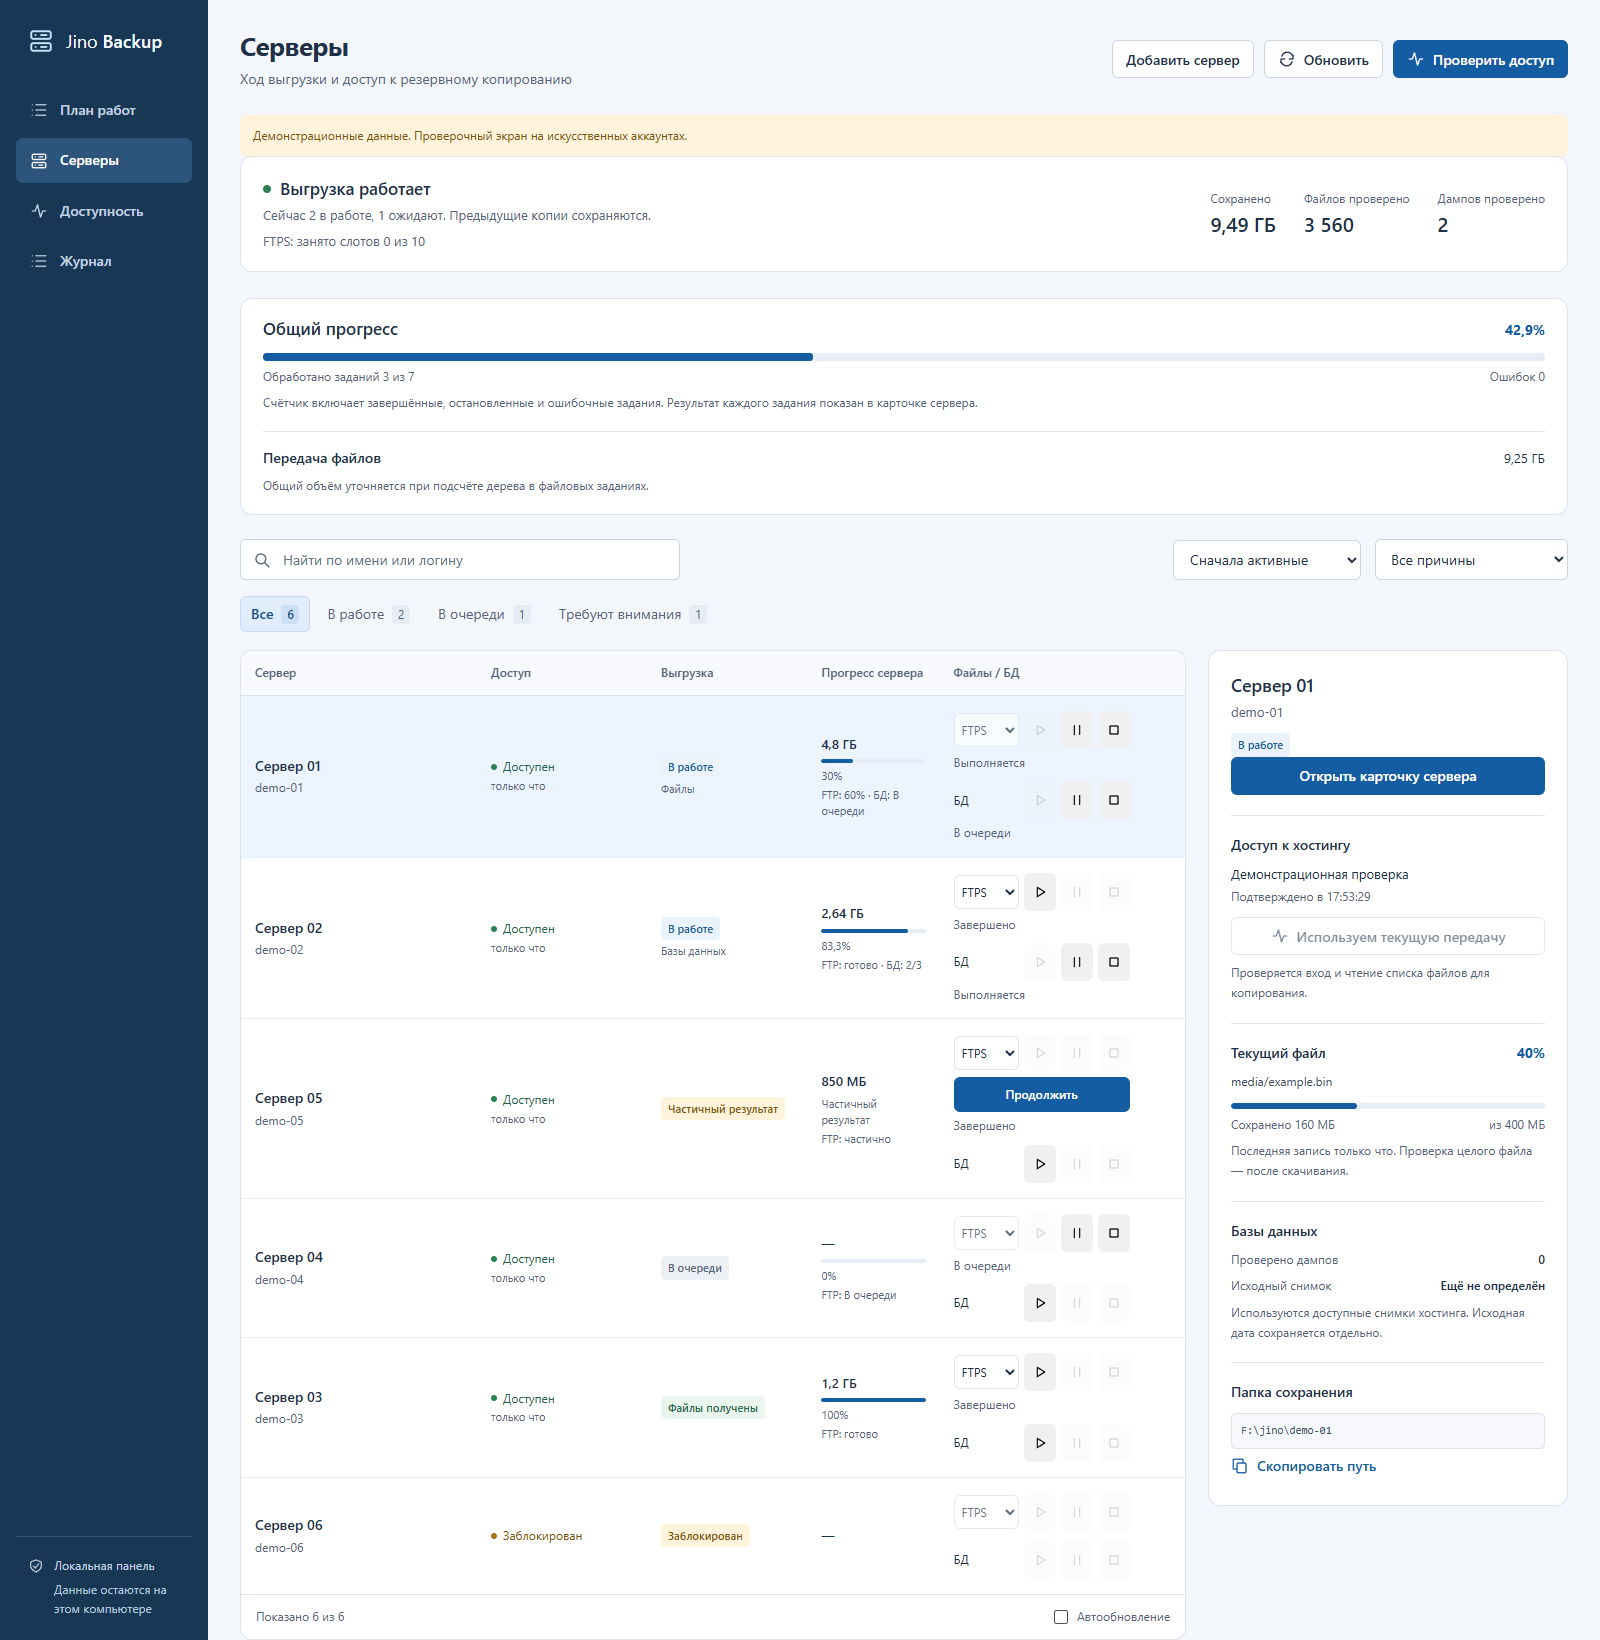
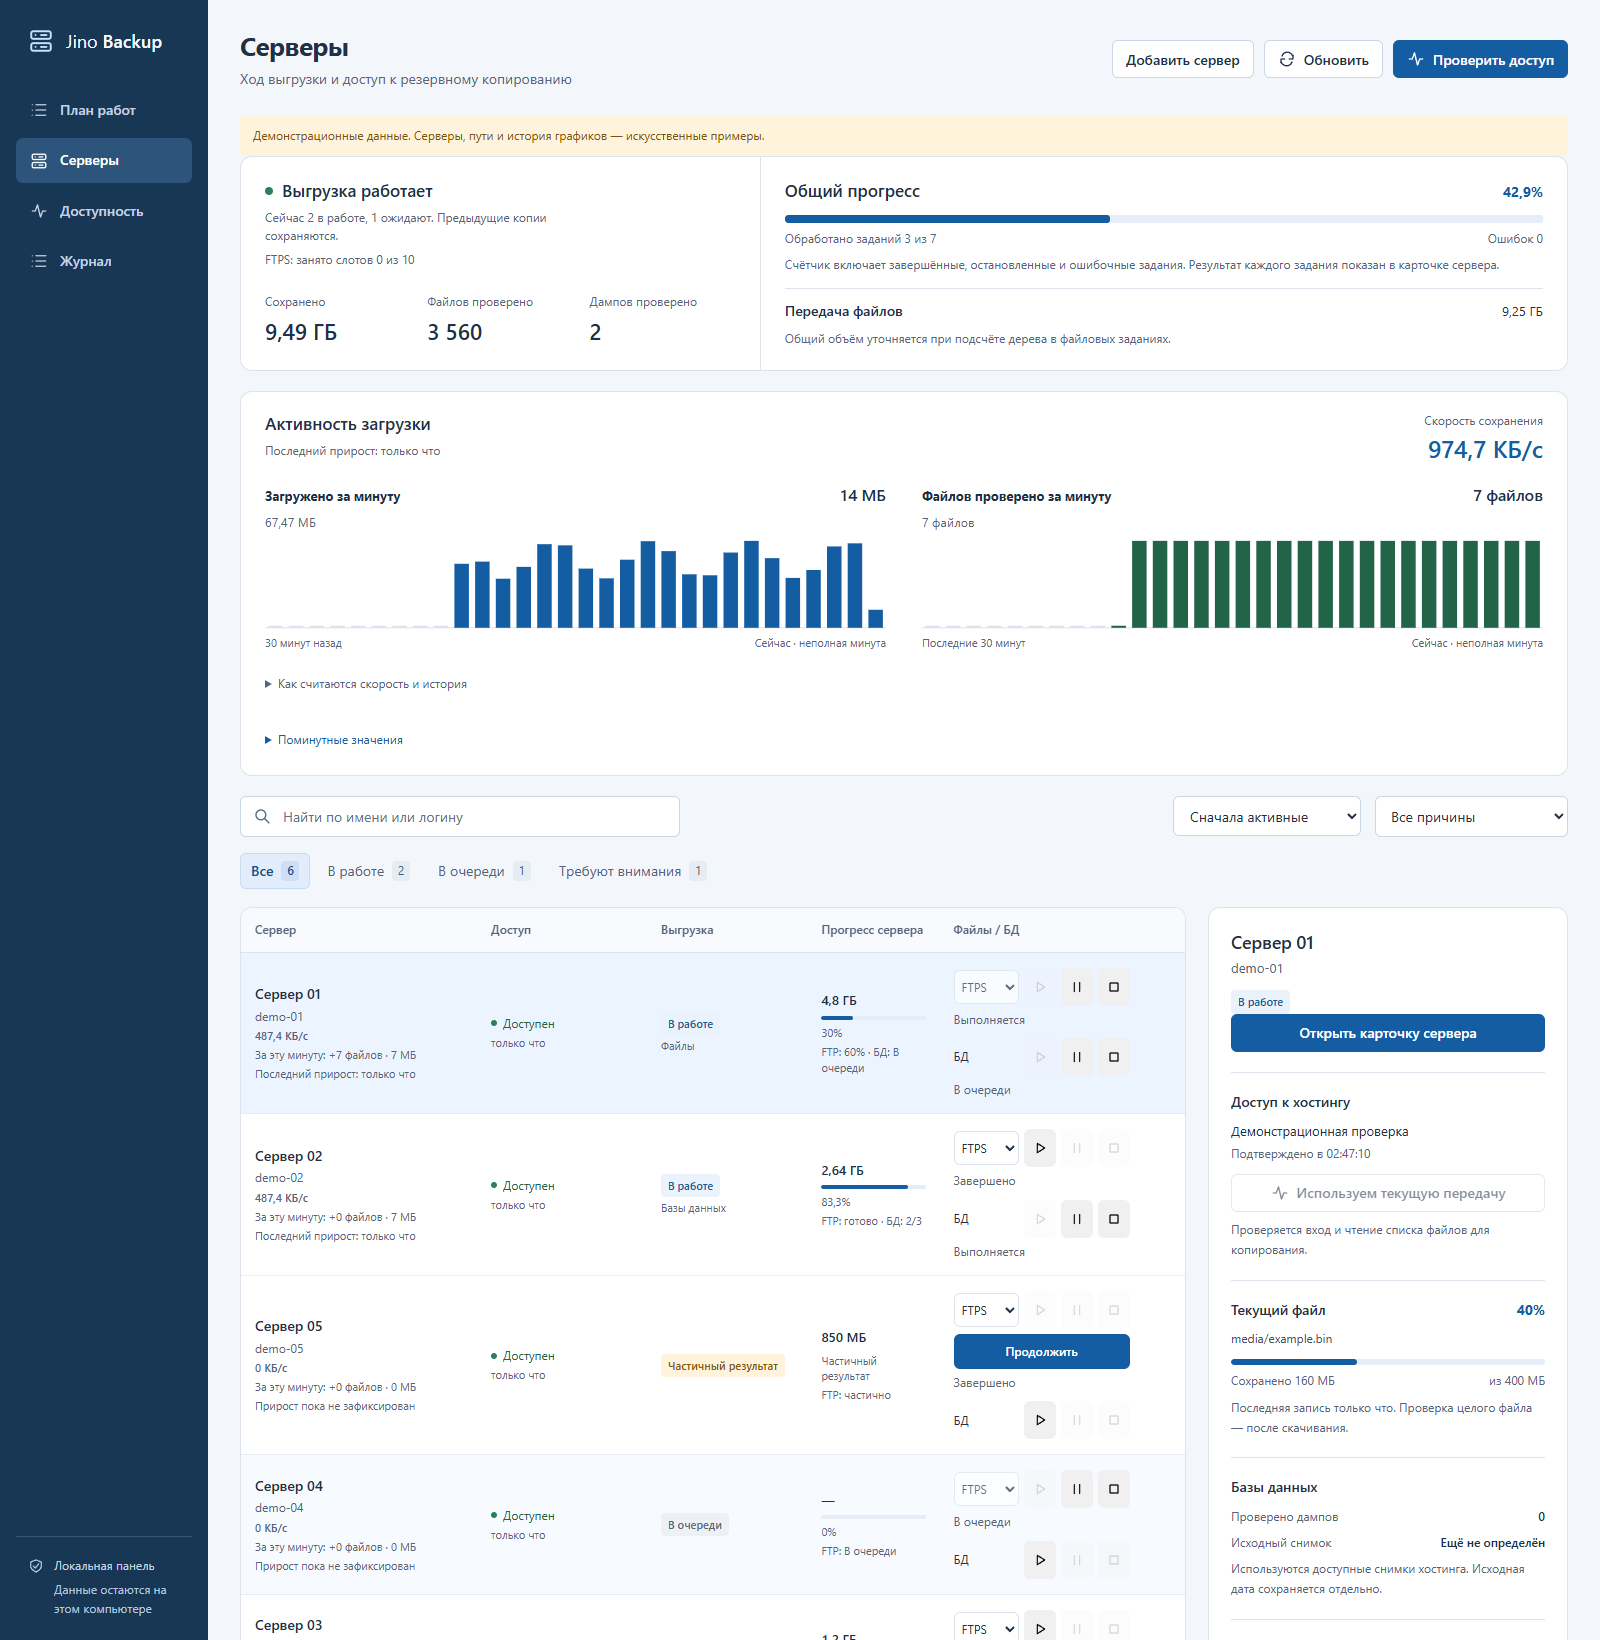
docs: refresh README screenshot with activity charts
Seed a synthetic 20-minute activity history in the capture script and note historical HTTPS diagnostics in the operator docs.

diff --git a/scripts/capture_readme_screenshot.py b/scripts/capture_readme_screenshot.py
@@ -99,6 +99,26 @@ def main():
                 expect(page.locator("#server-rows tr")).to_have_count(6)
                 expect(page.locator("#server-rows")).to_contain_text("demo-01")
                 expect(page.locator("#demo-banner")).to_be_visible()
+                page.evaluate('''() => {
+                    activity = new BackupActivity();
+                    const now = Date.now();
+                    for (let i=0; i<=240; i++) {
+                        const sample = structuredClone(state.data);
+                        for (const server of sample.servers) {
+                            for (const [kind, task] of Object.entries(server.latest_tasks || {})) {
+                                if (task.state !== 'RUNNING') continue;
+                                const p = task.progress;
+                                p.received_bytes = (p.received_bytes || 0) +
+                                    Math.round(i*2200000 + Math.sin(i/9)*6000000);
+                                if (kind === 'files') p.verified_files = (p.verified_files || 0) + Math.floor(i/12)*7;
+                            }
+                        }
+                        activity.observe(sample, now-(240-i)*5000);
+                    }
+                    renderActivity(); renderTable();
+                    document.getElementById('demo-banner').textContent =
+                        'Демонстрационные данные. Серверы, пути и история графиков — искусственные примеры.';
+                }''')
                 assert not errors, errors
                 assert page.evaluate("document.documentElement.scrollWidth <= window.innerWidth")
                 page.locator("#auto-refresh").blur()

diff --git a/README.md b/README.md
@@ -6,7 +6,7 @@
 
 ![Локальная панель: общий прогресс, задания FTP и БД, управление серверами](docs/images/dashboard.png)
 
-*Текущий интерфейс на искусственных данных. Названия, логины, адреса и пути серверов заменены демонстрационными; клиентские данные для снимка не читались.*
+*Интерфейс на 13 ноября: компактная сводка, общий прогресс, минутные графики и скорость сохранения. Серверы, логины, пути и история графиков — искусственные примеры; клиентские данные для снимка не читались.*
 
 ## Возможности и ограничения
 
@@ -73,7 +73,7 @@ New-Item -ItemType Directory -Force -Path .test-tmp | Out-Null
 .venv\Scripts\python.exe scripts/capture_readme_screenshot.py
 ```
 
-Скрипт запускает отдельный демонстрационный сервер на случайном loopback-порту, блокирует сетевые запросы за его пределы и сохраняет `docs/images/dashboard.png`. Рабочая панель и её задания не затрагиваются.
+Скрипт запускает отдельный демонстрационный сервер на случайном loopback-порту, блокирует внешние и изменяющие запросы, создаёт искусственную 20-минутную историю графиков и сохраняет `docs/images/dashboard.png`. Рабочая панель и её задания не затрагиваются. Демонстрационная история не подтверждает скорость или полноту реальных копий.
 
 ## Безопасное исследование и импорт
 
@@ -243,6 +243,8 @@ FTPS скачивает найденные файлы во время обход
 При управляемом параллельном FTPS рост сохранённой части своего файла сбрасывает счётчик повторов. Поэтому большой файл может пережить больше пяти обрывов с продвижением; пять переподключений без продвижения по-прежнему приводят к остановке. Журнал показывает код libcurl, описание и сохранённый объём именно затронутого файла. [Разбор отказов больших файлов и проверки](docs/24_large_file_recovery.md).
 
 Файлы и БД одного сервера используют отдельные блокировки на время работы. Общая блокировка папки удерживается только для её подготовки и проверки принадлежности; миграция имён захватывает обе блокировки работ и запрещена во время передачи или экспорта. Это устраняет конфликт `DOWNLOAD_BUSY` между FTP и БД. Другие случаи `DOWNLOAD_BUSY` могут означать действующее задание того же вида: удалять lock-файлы или создавать дубли не следует. Для продолжения используйте прежнее задание; журнал БД проверяет результат ранее отправленного экспорта. [Отдельный допуск БД](docs/26_independent_database_queue.md), [блокировки и проверки](docs/29_independent_storage_locks.md).
+
+Прежние ошибки HTTPS-файлов из массового прохода не выводятся как текущие предупреждения в таблице и не участвуют в её фильтре причин. Они сохраняются в карточке как «Прежняя выгрузка HTTPS» и в исходных журналах. Новые ошибки действующих заданий остаются видимыми, даже при совпадающем коде. [Разделение истории и текущих ошибок](docs/31_historical_https_diagnostics.md).
 
 Во вкладке файлов доступна настройка «Пропускать имена, несовместимые с Windows», включённая по умолчанию для управляемой очереди. Неподдерживаемый каталог пропускается вместе с поддеревом; каждый пропуск записывается в журнал и манифест, копия получает `PARTIAL`. В журнале есть отдельный фильтр пропусков. Проверка выхода за разрешённый корень остаётся обязательной. [Политика и проверки](docs/18_skip_unsupported_names.md).
 
